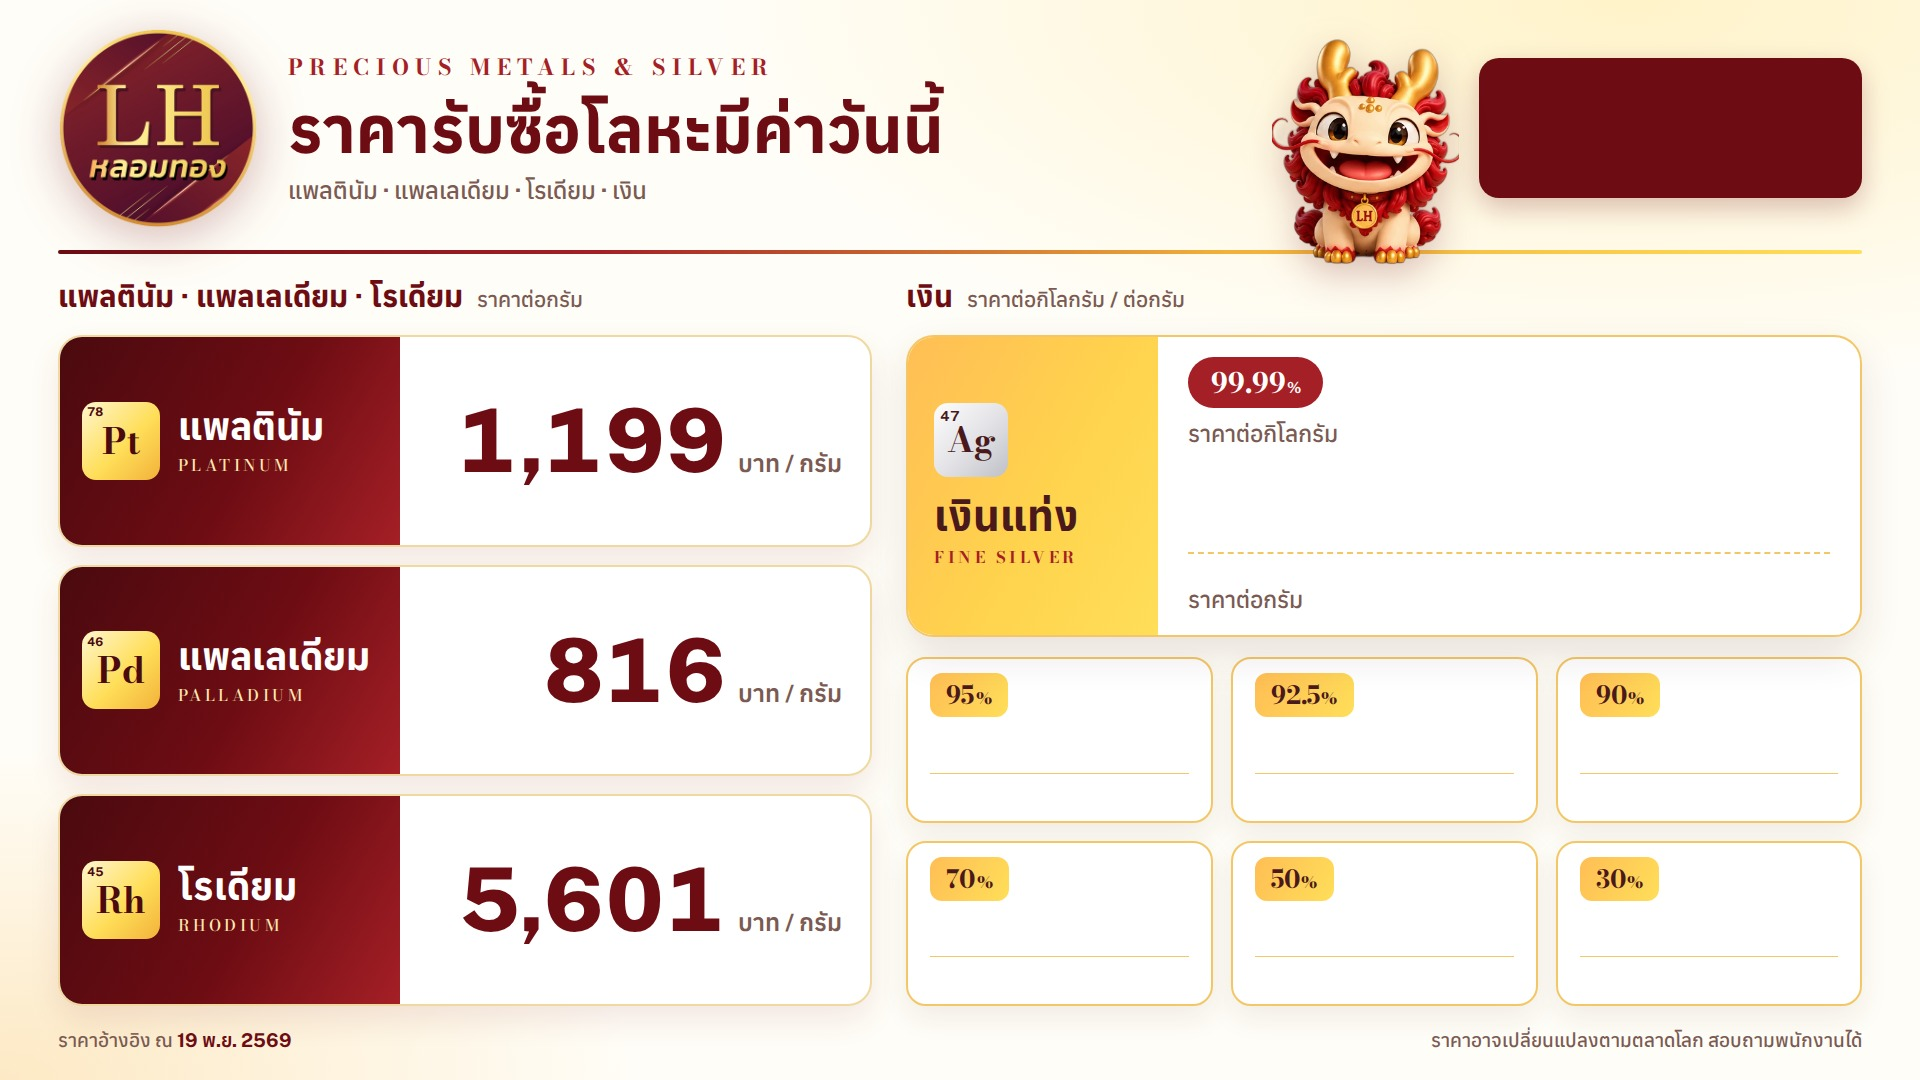
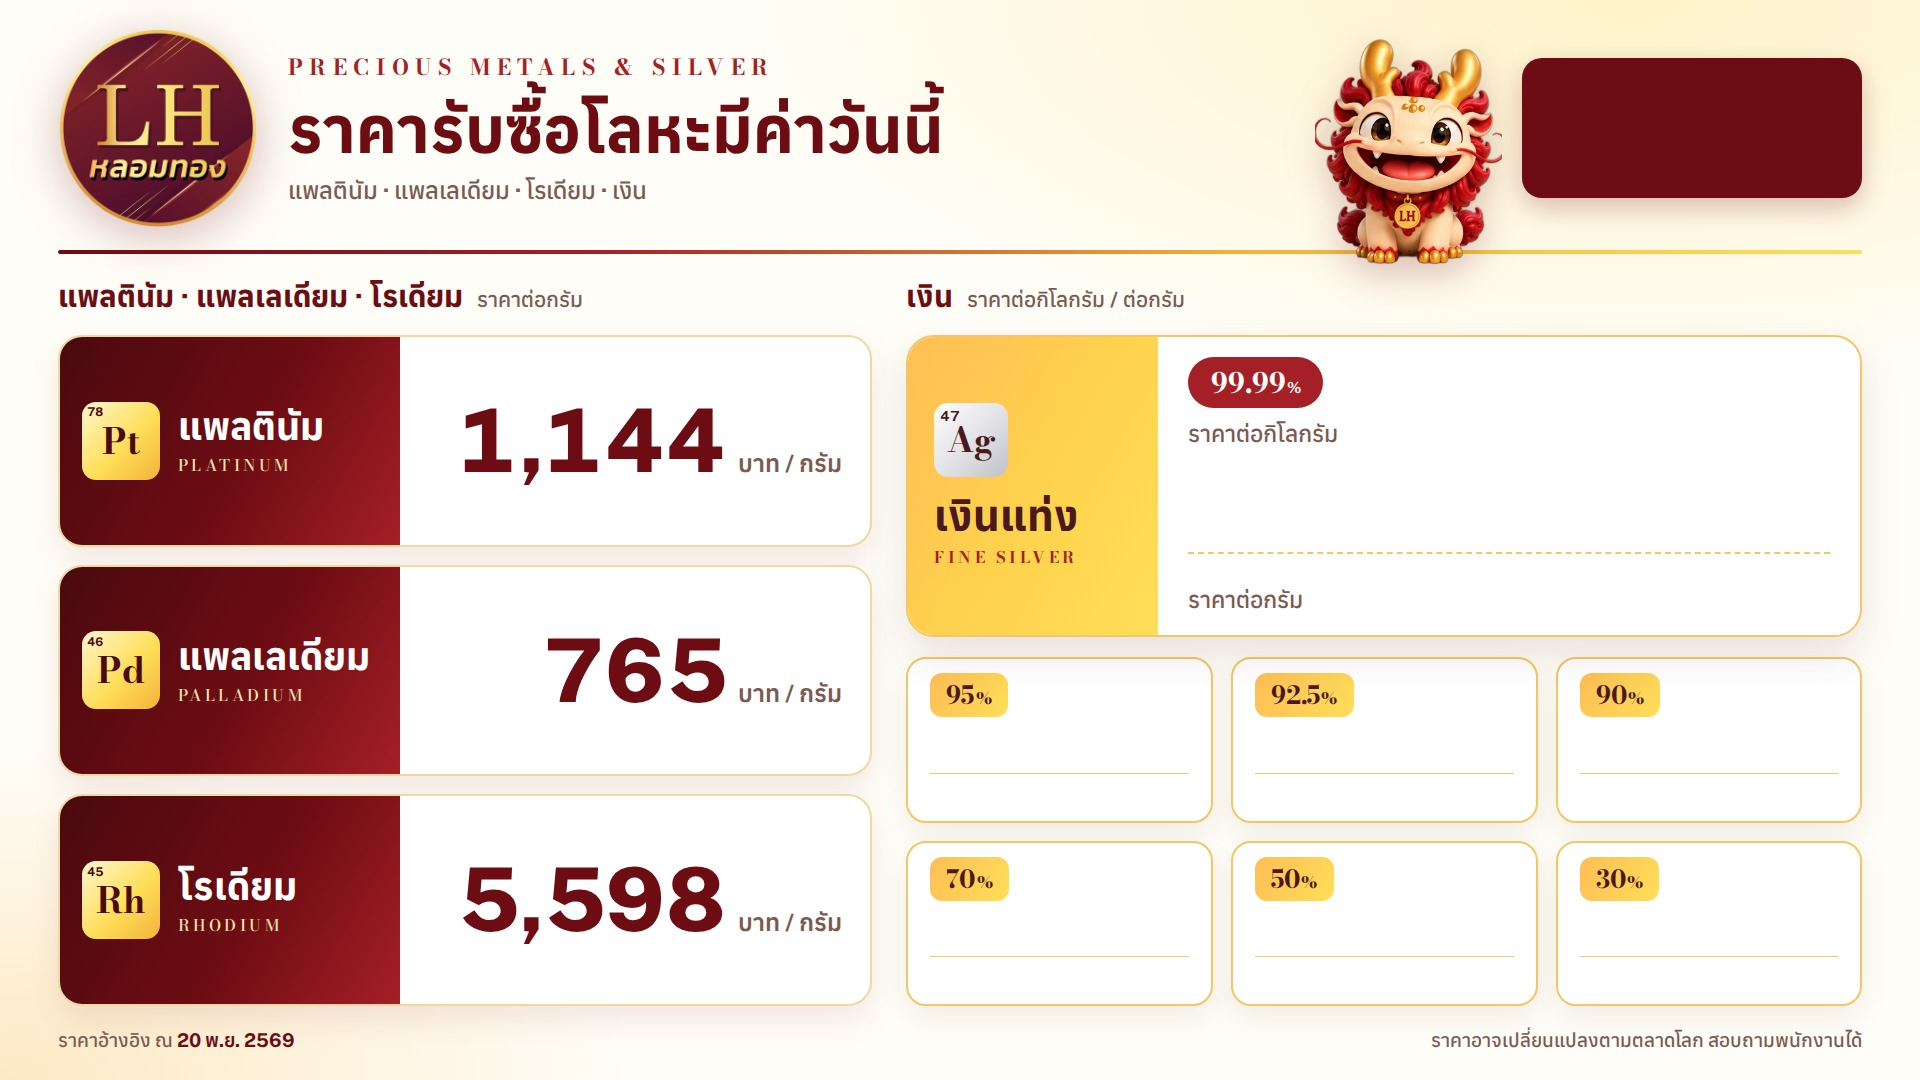
Update prices 2026-11-20

diff --git a/board.html b/board.html
@@ -302,14 +302,14 @@ html{-webkit-text-size-adjust:100%;text-size-adjust:100%}
      ราคาแต่ละเกรด = ราคาเงินหลังหัก × เปอร์เซ็นต์ (99.99% ใช้ราคาเต็ม)
    showSilver = เปิด/ปิดหน้าราคาเงิน, rotateSeconds = เปลี่ยนหน้าทุกกี่วินาที */
 const CONFIG = {
-  asOf: "19 พ.ย. 2569",
-  fx: 33.96,
+  asOf: "20 พ.ย. 2569",
+  fx: 33.94,
   discount: 0.20,
   rotateSeconds: 15,
   showSilver: true,
   metals: [
-    { th:"แพลตินัม",  en:"Platinum",  sym:"Pt", z:78, usdPerGram:44.1429 },
-    { th:"แพลเลเดียม", en:"Palladium", sym:"Pd", z:46, usdPerGram:30.0288 },
+    { th:"แพลตินัม",  en:"Platinum",  sym:"Pt", z:78, usdPerGram:42.1496 },
+    { th:"แพลเลเดียม", en:"Palladium", sym:"Pd", z:46, usdPerGram:28.164 },
     { th:"โรเดียม",    en:"Rhodium",   sym:"Rh", z:45, usdPerGram:274.89, discount:0.40 }
   ],
   silver: { pricePerKg: 55000, grades: [95, 92.5, 90, 70, 50, 30] }
